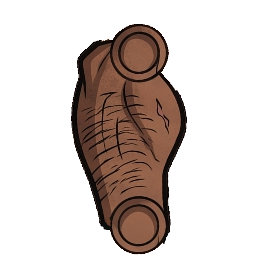
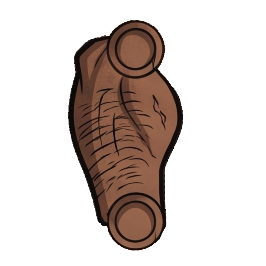
v2.16: iki korsan da yeni görsellerden baştan kuruldu; tüm parçalar aynı ölçek, beyaz kenar kalıntısı temizlendi, eski görseller değiştirildi
Claude-Session: https://claude.ai/code/session_01TTUSvMZpijoj56mF5NfEiC

Changed region(s): [[0.2406, 0.0602, 0.6917, 0.9624]]

diff --git a/www/index.html b/www/index.html
@@ -49,7 +49,7 @@ canvas{cursor:crosshair}.etiket,.ipucu{pointer-events:none}
 <link rel="stylesheet" href="https://fonts.googleapis.com/css2?family=Bangers&family=Nunito:wght@700;800&display=swap">
 
 <canvas id="c"></canvas>
-<div class="etiket"><b>POPEYE FIGHTER</b>v2.15</div>
+<div class="etiket"><b>POPEYE FIGHTER</b>v2.16</div>
 <div class="ipucu">← → yürü &nbsp; ↑ zıpla &nbsp; J yumruk &nbsp; K tekme &nbsp; G süpermen &nbsp; B dönen tekme &nbsp; N yer yumruğu/süper iniş &nbsp; M kayma &nbsp; ↓ çömel &nbsp; <b>sağ/sol yarıya tık tık: kombo &nbsp; sürükle: sağ yarı ön kol, sol yarı arka kol</b></div>
 <div class="tus" id="asa" aria-label="eğil"></div><div class="tus" id="sol" aria-label="sol"></div><div class="tus" id="sag" aria-label="sağ"></div><div class="tus" id="zipla" aria-label="zıpla"></div>
 <div id="kombolB" aria-label="kombo listesi"></div>
@@ -82,7 +82,7 @@ ADLAR.forEach(a=>{
     R.z_ust_k=koyult(R.z_ust,.3);R.z_onA_k=koyult(R.z_onA,.3);R.z_bacak_k=koyult(R.z_bacak,.36);R.z_ayak_k=koyult(R.z_ayak,.36);      // zombinin arkadaki kolu/bacağı daha koyu   // arkadaki kol: bacaktan daha açık ton
     basla();}};
   im.onerror=()=>{document.getElementById('yuk').textContent='Parça yüklenemedi: '+a};
-  im.src='parca/'+a+'.png?v=42';          // ?v= : görsel değişince tarayıcı eski önbelleği kullanmasın
+  im.src='parca/'+a+'.png?v=43';          // ?v= : görsel değişince tarayıcı eski önbelleği kullanmasın
 });
 const YUZ=[];                      // ana yüz: 0 = tam can ... 9 = çok az can, 10 = ölü
 for(let i=0;i<11;i++){const im=new Image();im.src='yuz/yuz'+i+'.png?v=41';YUZ.push(im)}
@@ -1325,11 +1325,11 @@ function ciziZombi(e,mask){
 }
 // ---------- Korsan (insan dövüşçü): oyuncunun iskeleti gibi omuz → dirsek → bilek, kalça → diz; parça halkaları eklem noktası ----------
 // iki görünüm aynı iskelet ve hareketlerle: k = yumruklu korsan, b = bıçaklı korsan (eski emekleyen zombinin yerine)
-const KSK={
-  k:{p:'k_',sc:0.95,us:1,as:1,A:{ust:[83,64.4],on:[139,52.2],elN:[91.1,43.3],elF:[95.8,44.1],uyN:[86.1,47.8],uyF:[86.1,47.8],bacak:[107.3,70.2],govde:[150,351],kalca:[105.3,75.3],kafa:[129,216]},
-     ust:183.8,on:172.7,uy:209.8,tb:[0,276],bel:566,kN:[15,96],kF:[-18,96],omN:[-100.8,-227.4],omF:[90,-246],boyun:[10.8,-308]},
-  b:{p:'b_',sc:0.98,us:1,as:1,A:{ust:[58.8,54.5],on:[128.4,47.2],elN:[64.9,32.8],elF:[94.5,43.8],uyN:[72.7,42.4],uyF:[112.4,53.2],bacak:[88.8,31.2],govde:[138,351],kalca:[123,27],kafa:[123,231]},
-     ust:138.9,on:166.4,uy:208.5,tb:[1.2,249.6],bel:551,kN:[12,93],kF:[-18,90],omN:[-85.2,-228],omF:[114,-249],boyun:[-9,-307]}
+const KSK={      // iki korsan da kendi görsel setinden, tüm parçalar aynı ölçekte (eklem noktaları = parçalardaki halkalar)
+  k:{p:'k_',sc:0.95,us:1,as:1,A:{ust:[79.1,60.4],on:[134.9,48.3],elN:[87.2,38.2],elF:[92.7,41.0],uyN:[111.2,54.2],uyF:[111.2,54.2],bacak:[97.1,44.4],govde:[148.6,345.0],kalca:[92.4,46.8],kafa:[173.6,208.1]},
+     ust:185.6,on:172.3,uy:248.8,tb:[59.1,308.6],bel:666.6,kN:[0.0,109.2],kF:[-36.0,109.2],omN:[-103.0,-220.2],omF:[50.6,-229.2],boyun:[-2.4,-300.7]},
+  b:{p:'b_',sc:0.98,us:1,as:1,A:{ust:[55.3,52.2],on:[125.2,45.5],elN:[65.9,32.1],elF:[91.8,40.6],uyN:[87.9,39.7],uyF:[87.9,39.7],bacak:[86.4,30.8],govde:[118.0,297.0],kalca:[98.4,49.7],kafa:[180.9,236.6]},
+     ust:137.0,on:165.6,uy:191.3,tb:[38.6,352.2],bel:659.4,kN:[0.0,115.9],kF:[-36.0,115.9],omN:[-53.2,-195.0],omF:[58.4,-204.0],boyun:[7.8,-258.5]}
 };
 const KDUR={F:0.5,N:0.62,B:0.66};      // F = öndeki kol (jab), N = arkadaki kol (kroşe), B = bıçak savurma (yakın el)
 const KPZ={dur:{hx:0,torso:6,bas:-3,uN:-35,rN:-105,wN:0,uF:-55,rF:-100,wF:0,lN:-10,kN:14,lF:12,kF:10}};
@@ -1369,7 +1369,7 @@ function kKol(K,om,u,r,w,far,fl,e,ix){
   krp(R[P+(far?'ust_k':'ust')],A.ust,fl);
   ctx.translate(0,K.ust);ctx.rotate(r*D);
   ctx.save();ctx.translate(0,K.on);ctx.rotate(w*D);krp(R[P+(far?'elF_k':'elN')],far?A.elF:A.elN,fl);
-  if(e){uc(e,ix,0,75);if(!far&&P==='b_'){uc(e,2,180,55);uc(e,3,325,-6)}}      // yumruğun / bıçağın dünya konumu: vuruş = gerçekten değince
+  if(e){uc(e,ix,0,75);if(!far&&P==='b_'){uc(e,2,188.7,6.5);uc(e,3,343.1,11.9)}}      // yumruğun / bıçağın dünya konumu: vuruş = gerçekten değince
   ctx.restore();
   krp(R[P+(far?'on_k':'on')],A.on,fl);      // ön kol halkası dirseği örter
   ctx.restore();
